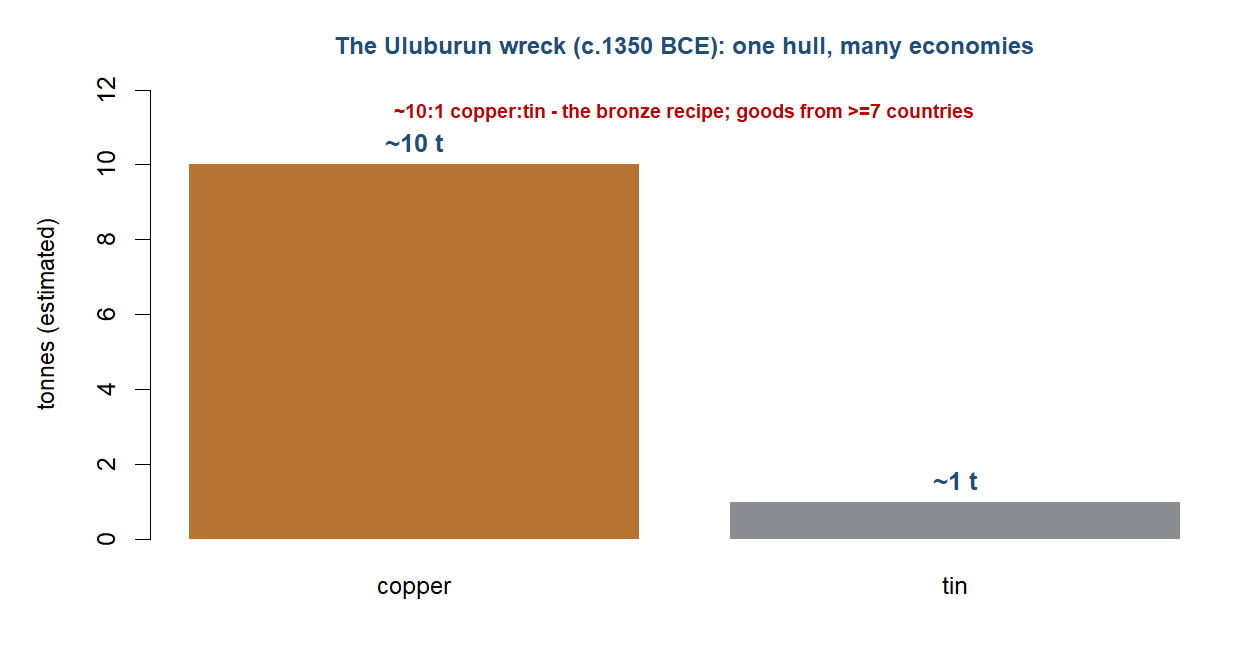
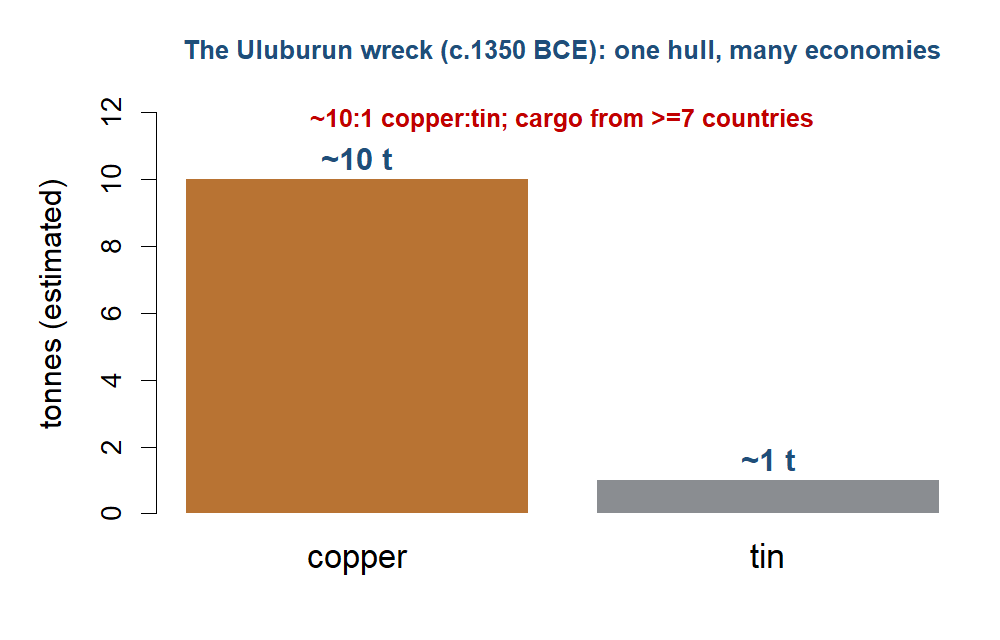
PDF layout pass: margins, figure placement, captions, numbering
Per review of the print PDF (HTML build unaffected):
- Narrower margins: KOMA DIV=14 (wider text block on A4).
- Pin figures in place: fig-pos: H (+ float pkg) -> fixes figures overlapping
  callout boxes and figures floating onto their own page.
- Captions centred, no hanging indent, small (caption pkg) in tex/pdf-layout.tex.
- Bigger fonts on the Uluburun cargo chart (Ch1 Fig 11).
- open=any: drop the blank verso before each chapter (484 -> 469 pp).
- number-sections: true + number-depth: 1 for PDF so @user cross-refs
  resolve ("Chapter 2") and the 10 chapters are numbered (was rendering
  "(Chapter )" empty; now matches the HTML build).

diff --git a/tex/pdf-layout.tex b/tex/pdf-layout.tex
@@ -1,0 +1,27 @@
+% ---------------------------------------------------------------------------
+% PDF layout tuning (xelatex / scrbook). The HTML build is unaffected by this.
+% Loaded after unicode-map.tex via _quarto.yml include-in-header.
+% ---------------------------------------------------------------------------
+
+% Captions: centred, no hanging indent under "Figure N", small font.
+% Loading the caption package also disables KOMA's default hanging-indent caption.
+\usepackage{caption}
+\captionsetup{%
+  justification=centering,
+  singlelinecheck=false,
+  font=small,
+  labelfont=bf,
+  labelsep=period,
+  skip=6pt,
+  width=0.9\linewidth}
+
+% Floats: keep figures where they are written (fig-pos: H in _quarto.yml needs this),
+% and, where a figure does float, let pages fill more fully and avoid float-only pages.
+\usepackage{float}
+\setcounter{topnumber}{3}
+\setcounter{bottomnumber}{2}
+\setcounter{totalnumber}{5}
+\renewcommand{\topfraction}{0.92}
+\renewcommand{\bottomfraction}{0.85}
+\renewcommand{\textfraction}{0.06}
+\renewcommand{\floatpagefraction}{0.75}